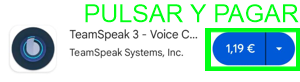
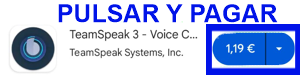
NUEV

Changed region(s): [[0.18, 0.0488, 1.0, 0.9268]]

diff --git a/man_team_android.html b/man_team_android.html
@@ -51,6 +51,73 @@
  </div>
   </nav>
 <!-- FIN MENU PRINCIPAL -->
+	<center>
+		<br>
+<h3 style="color:#00FF44">MANUAL INSTALACION TEAMSPEAK ANDROID</h3>
+	
+		
+	<div class="desmandbox">
+		<h4 style="color:#A31315"><u>DESCARGA</u></h4>
+	<a style="color:#000000" href="https://play.google.com/store/apps/details?id=com.teamspeak.ts3client&hl=es"> <img src="gfxteam/log_android.png" alt="Logo win" width="25px" style="margin-bottom: 5px;" class="img-fluid"> <b>ANDROID. PlayStore. </b></a> <a style="color: #0014F4"><b>1,19€</b></a>
+		<br>
+	<a href="https://play.google.com/store/apps/details?id=com.teamspeak.ts3client&hl=es"><img src="m_team_android/01_team.png" alt="Playstore" width="" class="img-fluid"> </a>
+		</div>
+		<br>
+		<div>
+			<h4 style="color: #0AFF00"><u>INSTALACIÓN</u></h4>
+			
+			<li style="color:#FFE500"><u>INICIAR APLICACION</u></li>
+			  <li>PERMISOS ANDROID</li>
+			<br>
+				<div>
+				<img src="m_team_android/02_p_team.png" alt="Logo win" width="" class="img-fluid">
+				</div>
+				<br>
+				<div>
+				<img src="m_team_android/03_p_team.png" alt="Logo win" width="" class="img-fluid">
+				</div>
+				<br>
+				<div>
+				<img src="m_team_android/04_p_team.png" alt="Logo win" width="" class="img-fluid">
+				</div>
+			<br>
+			<div>
+				<img src="m_team_android/05_team.png" alt="Logo win" width="" class="img-fluid">
+			</div>
+			</div>
+		<br>
+		<div>
+			<h4 style="color: #0AFF00"><u>CONFIGURACIÓN</u></h4>
+			  <div>
+		      <li style="color:#FFE500">CONFIGURACIÓN USUARIO</li>
+			<div>
+				<img src="m_team_android/06_team.png" alt="Logo win" width="" class="img-fluid">
+			</div>
+				<br>
+			<div>
+				<img src="m_team_android/07_team.png" alt="Logo win" width="" class="img-fluid">
+			</div>
+				  
+			</div>
+			<br>
+			<div>
+				 <li style="color:#FFE500">CONFIGURACIÓN SERVIDOR</li>
+				 <br>
+				<div>
+					<img src="m_team_android/08_team.png" alt="Logo win" width="" class="img-fluid">
+				</div>
+				<br>
+				<div>
+					<img src="m_team_android/09_team.png" alt="Logo win" width="" class="img-fluid">
+					
+				</div>
+			</div>
+			
+			
+		</div>
+		
+		
+</center>
 	
 </body>
 <footer>	

diff --git a/css/style.css b/css/style.css
@@ -194,6 +194,16 @@ a:hover{color:#ffd215;}
     background-color: #000000;
     padding: 12px 10px 15px 10px;
 }
+
+.desmandbox{max-width: 400px;
+ width: 90%;
+	border-style: solid; 
+    border-width: 4px;
+    border-color: #E47800;
+	background-color: #FFFFFF;
+       padding: 12px 10px 15px 10px;
+}
+
 /** parpadeo texto **/
 .parpadea {
   
